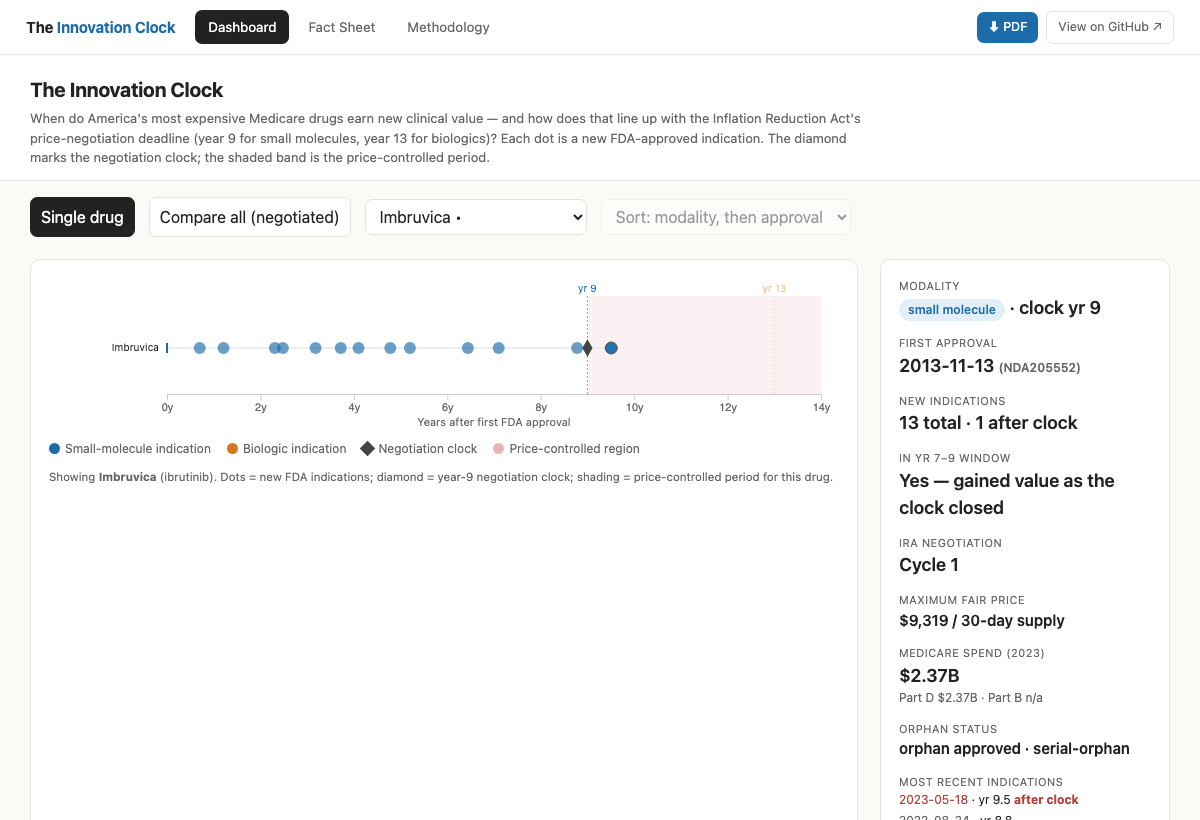
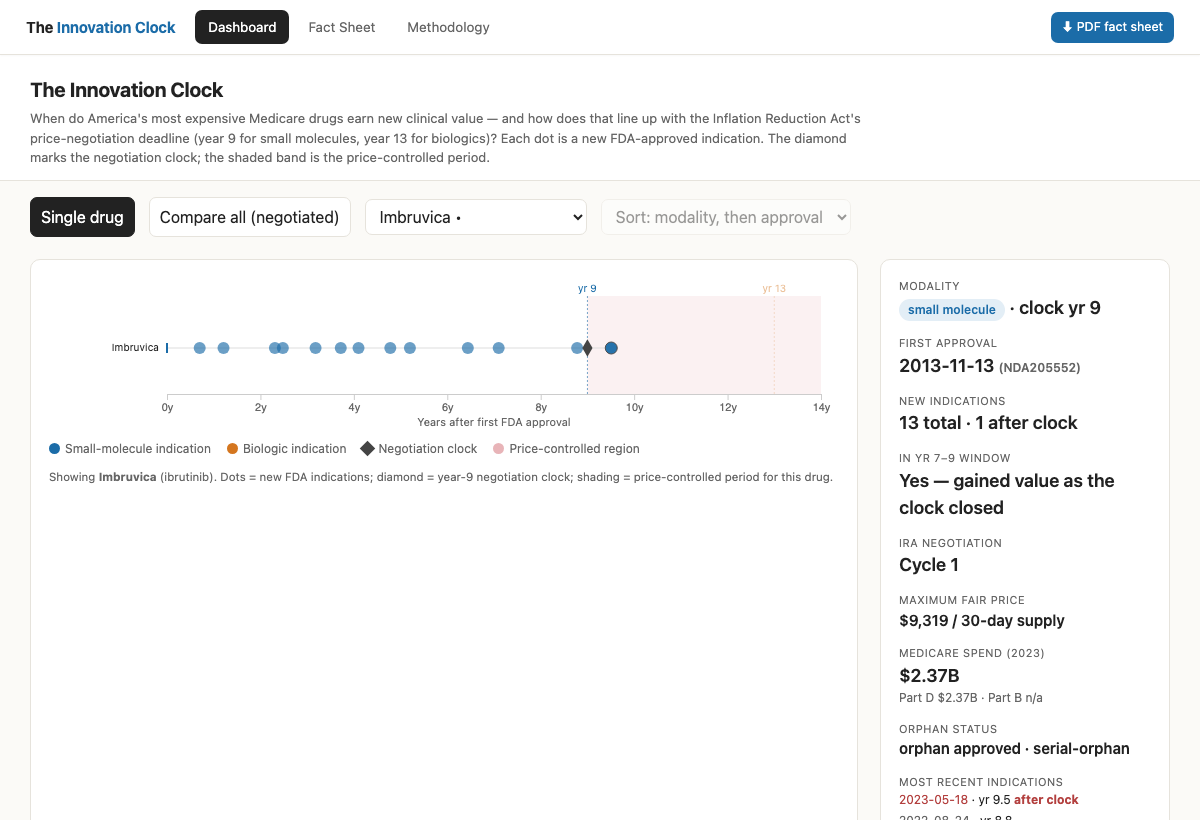
Site for submission: drop repo links, rewrite Methodology as a narrative
- Remove the "View on GitHub" button from the site; the deliverable is the live
  link only, so nothing points at the code repo (the github.io Pages URL — the
  live site itself — remains).
- Rewrite the Methodology tab from a raw technical dump into a balanced,
  plain-language narrative: what we set out to answer, the data, how we built it
  (cohort, anchoring, counting indications, spend, the two policy what-ifs), and
  an honest "choices that matter" callout — still rigorous, now readable.
- Mirror the change in the downloadable PDF appendix: replace the GitHub/code
  bullet with "available on request" and keep the dashboard link + datasets +
  reproducibility note.

Changed region(s): [[0.8017, 0.0, 0.9867, 0.061]]

diff --git a/dashboard/index.html b/dashboard/index.html
@@ -106,8 +106,7 @@
   <button class="tab" data-tab="factsheet">Fact Sheet</button>
   <button class="tab" data-tab="methodology">Methodology</button>
   <div class="right">
-    <a class="pdfmini" href="../factsheet/Shahid_Abdullah_Innovation_Clock.pdf" target="_blank" rel="noopener">⬇ PDF</a>
-    <a class="ghlink" href="https://github.com/asweezy00/innovation-clock" target="_blank" rel="noopener">View on GitHub ↗</a>
+    <a class="pdfmini" href="../factsheet/Shahid_Abdullah_Innovation_Clock.pdf" target="_blank" rel="noopener">⬇ PDF fact sheet</a>
   </div>
 </div>
 
@@ -232,76 +231,72 @@
 <section id="tab-methodology" class="tabpanel">
 <div class="article">
   <div class="eyebrow">Methodology</div>
-  <p class="fs-dek">Every data-source decision, cleaning rule, and limitation behind the numbers. The full data dictionary
-  and findings log live in the <a href="https://github.com/asweezy00/innovation-clock/tree/main/docs" target="_blank" rel="noopener">repository</a>.</p>
-  <div class="md"><h1>Methodology</h1>
-<p>This document records every data-source decision, cleaning rule, and known limitation in the Innovation Clock pipeline. The goal is full reproducibility: <code>python -m src.run_all</code> rebuilds every artifact from cached raw responses in <code>data/raw/</code>.</p>
-<h2>1. The analytical frame (policy facts)</h2>
-<p>The IRA lets Medicare set a "Maximum Fair Price" (MFP) on high-spend, single-source drugs. Eligibility timing depends on <strong>modality</strong>, taken from the FDA application type:</p>
-<ul>
-<li><strong>Small molecule (FDA NDA)</strong> — selected at <strong>year 7</strong> after approval; MFP effective at <strong>year 9</strong>.</li>
-<li><strong>Biologic (FDA BLA)</strong> — selected at <strong>year 11</strong>; MFP effective at <strong>year 13</strong>.</li>
-</ul>
-<p>The 4-year gap is the contested <strong>"pill penalty."</strong> The <strong>EPIC Act (H.R. 1492, 119th Congress)</strong> would push small-molecule selection to year 11; as of 2026 it is <strong>pending, not enacted</strong>. The <strong>One Big Beautiful Bill Act</strong> (P.L. 119-21, signed July 4, 2025; recent CMS documents cite it as the "Working Families Tax Cuts" legislation) broadened the orphan exclusion to "serial orphan" drugs (multiple rare-disease indications, no non-orphan approval) and resets their clock to first non-orphan approval. All policy numbers cited in outputs carry a source URL — see <a href="https://github.com/asweezy00/innovation-clock/blob/main/data/raw/policy_facts.json" target="_blank" rel="noopener"><code>data/raw/policy_facts.json</code></a>, compiled from primary sources and cross-checked against the underlying documents (CMS, KFF, Congress.gov, CRS, Public Citizen, PhRMA, Sidley/Jones Day).</p>
-<h2>2. Cohort construction (<code>src/cohort.py</code>)</h2>
-<p>The cohort is the <strong>union</strong> of:</p>
-<ul>
-<li><strong>(A) IRA negotiation Cycles 1–3</strong> — 10 + 15 + 15 = 40 unique molecules (Tradjenta appears in Cycle 2 <em>and</em> as the Cycle 3 renegotiation; counted once under Cycle 2). These lists and their MFPs are <strong>curated, cited constants</strong> verified against primary CMS fact sheets and cross-checked vs KFF on 2026-06-07. They are <em>baked in</em>, not scraped at runtime, because CMS HTML/PDF layouts change and are not reliably machine-parseable — baking them in keeps reruns deterministic and offline. The MFP values are the CMS-published <strong>30-day-supply-equivalent</strong> negotiated prices.</li>
-<li><strong>(B) Top-50 Medicare Part D drugs</strong> by latest-year (2023) gross spend, fetched live from CMS and cached.</li>
-</ul>
-<p>Deduplication uses the <strong>ingredient set</strong> (normalized active ingredients) with a <strong>brand-name fallback</strong> — CMS abbreviates combination-drug ingredients (e.g. "Bictegrav/Emtricit/Tenofov Ala"), so brand matching is needed to merge e.g. Biktarvy/Trelegy/Ofev that appear in both (A) and (B). The cohort is capped near 64–70 molecules.</p>
-<p><strong>"Negotiation-eligible" approximation.</strong> For the top-50 set we use high-spend single brand-name Part D drugs (brand ≠ generic; supplies like needles/lancets excluded). True IRA eligibility also requires 7+ years on market with no generic/biosimilar competitor — not determinable from spend data alone — so the top-50 set is an <em>approximation</em> that broadens the analysis beyond the negotiated 40.</p>
-<p><strong>Canonical analysis cohort = the 40 negotiated drugs.</strong> The two CSVs and the dashboard carry the full 64-drug union, but every headline statistic, the modality table, and Figures 1–3 are computed on the 40 IRA-negotiated drugs only. The top-50 union is never mixed into the headline stats (it would otherwise pull in non-negotiated drugs like Humira and Lantus). See <code>analyze.py</code>, which prints the per-metric computation into <code>docs/FINDINGS.md</code>.</p>
-<h2>3. FDA resolution — the crux (<code>src/fetch_fda.py</code>)</h2>
-<p>Mapping a brand/generic to the right FDA application(s) is the hardest step. Findings that shaped the logic:</p>
-<ul>
-<li><strong><code>products.active_ingredients.name</code> is the reliable search key.</strong> The openFDA <code>openfda</code> block (brand/generic/substance names) is <strong>empty on many originator NDAs/BLAs</strong>, so brand/generic/substance searches <em>miss the original application</em>. Example: <code>openfda.brand_name:"ELIQUIS"</code> returns HTTP 404 (no match) and <code>openfda.generic_name:"apixaban"</code> returns only ANDA generics — but <code>products.active_ingredients.name:"APIXABAN"</code> returns the original NDA202155 (2012) plus the NDA220073 reformulation. We search by each active-ingredient token (plus brand/generic as cheap fallbacks), union the results, and <strong>keep only <code>NDA</code>/<code>BLA</code> originator applications</strong> (ANDA generics dropped).</li>
-<li><strong>Ingredient-set filter (exact equality).</strong> A candidate application is accepted if its active-ingredient set <strong>exactly equals</strong> the cohort drug's expected ingredient set, <strong>or</strong> the brand name matches. Exact equality (not subset) cuts both ways: a combination drug (Entresto = sacubitril + valsartan) must list <em>both</em> members, so valsartan-only products are excluded; and a single-ingredient drug (Jardiance = empagliflozin) does <strong>not</strong> absorb fixed-dose combinations or co-packs that merely <em>contain</em> it (Synjardy, Glyxambi, Trijardy, the Kisqali-Femara co-pack) — those products' new indications belong to them, not to the single agent. (An earlier subset rule let single agents absorb ~20 such combination-product supplements, double-counting Trijardy's 2020 supplement under both Jardiance and Tradjenta; exact matching removes them.)</li>
-<li><strong>Anchor = earliest original approval.</strong> Year 0 is the <strong>minimum <code>submission_status_date</code> among <code>submission_type == "ORIG"</code> and <code>submission_status == "AP"</code></strong> across <em>all</em> matched applications. This fixes the reformulation trap: a brand search for Imbruvica surfaces a 2022 reformulation (NDA217003), but anchoring to the earliest ORIG-AP correctly yields NDA205552 (2013-11-13).</li>
-<li><strong>New indications = efficacy supplements.</strong> Submissions with <code>submission_type == "SUPPL"</code>, <code>submission_status == "AP"</code>, and class <strong><code>EFFICACY</code></strong> (detected via <code>submission_class_code == "EFFICACY"</code> — more robust than the sometimes-absent <code>submission_class_code_description</code>). Events are <strong>deduplicated by date</strong> across all of a molecule's applications (e.g. Eliquis supplements #39 and #40 on 2025-04-17 collapse to one event). <code>years_after_launch = (event_date − anchor_date) / 365.25</code>.</li>
-<li><strong>Modality</strong> is read from the <strong>anchor application's prefix</strong>: <code>NDA</code> → small molecule (clock 9), <code>BLA</code> → biologic (clock 13).</li>
-<li><strong>Indication text</strong> is best-effort from the openFDA <code>label</code> endpoint (<code>indications_and_usage</code>); missing for some drugs.</li>
-</ul>
-<p><strong>HTTP etiquette &amp; caching.</strong> Descriptive User-Agent; ~0.3s between live calls; exponential backoff on 429/5xx; a malformed single query (HTTP 400, e.g. a combination generic with punctuation) is skipped (logged) rather than fatal, and the other search angles still resolve the drug. Every raw JSON response is cached to <code>data/raw/fda/</code>.</p>
-<p><strong>Documented FDA limits.</strong> We request openFDA's maximum of 1,000 results per query. A handful of <em>very common</em> shared ingredients (e.g. metformin, tenofovir) match more products than that, but originator resolution does not depend on an exhaustive listing — each drug is also searched by its own ingredient tokens, and combination products are excluded by the exact-ingredient-set match above, so the truncation does not affect any cohort drug's anchor or event set. Efficacy supplements are a <strong>proxy</strong> for "new indications": they capture most new-disease approvals but also some population/line-of-therapy expansions and can miss a handful of original-label indications. This bias is consistent across modalities, so cross-modality comparisons remain meaningful.</p>
-<h2>4. CMS spend (<code>src/fetch_cms.py</code>)</h2>
-<ul>
-<li><strong>UUID discovery, not hardcoding.</strong> Dataset UUIDs change yearly, so we fetch the CMS open-data catalog (<code>https://data.cms.gov/data.json</code>) and match the exact titles "Medicare Part D Spending by Drug" and "Medicare Part B Spending by Drug" (the annual, not Quarterly, datasets), reading the dataset UUID from the distribution's <code>accessURL</code>. The data-api is then paginated (<code>size=5000</code>) and every page cached to <code>data/raw/cms/</code>.</li>
-<li><strong>Latest year = 2023</strong> (series 2019–2023).</li>
-<li><strong>Part D</strong> carries per-manufacturer rows plus an <code>Mftr_Name == "Overall"</code> aggregate per SKU — we keep only the Overall rows to avoid double-counting (3,598 rows).</li>
-<li><strong>Spend = the whole negotiated brand family, not one SKU.</strong> A CMS-negotiated "drug" is a brand <em>family</em>: its Part D "Overall" spend is split across device/strength variants (Enbrel / Enbrel Mini / Enbrel SureClick; Austedo / Austedo XR) and, where CMS bundles them, across distinct brands of the same molecule (Ozempic / Rybelsus / Wegovy; NovoLog / Fiasp). We therefore <strong>sum</strong> the family: an Overall row joins a drug's unit when it is single-source (brand ≠ generic, so authorized generics and commodity rows are excluded) <strong>and</strong> its brand equals the drug's brand or a curated CMS-bundle alias, <strong>or</strong> is a device/strength variant of one carrying the <em>same</em> active ingredient (so the biphasic "NovoLog Mix 70-30" and the Kisqali-Femara co-pack, which have different ingredients, are excluded). This recovers ≈$4.6B that a single-row pick understates (e.g. Ozempic+Rybelsus+Wegovy = $10.9B vs $9.2B for the Ozempic SKU alone; Enbrel family $3.0B vs $2.1B).</li>
-<li><strong>Part B has no manufacturer column</strong> (it is HCPCS-based); a drug can span multiple HCPCS rows, so Part B spend for a drug is the <strong>sum</strong> of its matched rows.</li>
-<li><strong>Join FDA↔CMS</strong> has no shared key: we normalize names (uppercase, strip salts/forms/punctuation) and match exact-then-fuzzy (<code>rapidfuzz</code>, token-sort ratio ≥ 88). Spend is looked up in <strong>both</strong> Part D and Part B for every drug (so Part B physician-administered biologics like Orencia/Entyvio get their dominant Part B spend), and <code>total_medicare_spend = Part D + Part B</code>. Salt/form stripping covers e.g. "Dapagliflozin Propanediol" → dapagliflozin, "Nintedanib Esylate" → nintedanib.</li>
-</ul>
-<h2>5. Orphan enrichment (<code>src/fetch_orphan.py</code>)</h2>
-<p>The FDA OOPD "Search Orphan Drug Designations and Approvals" database has <strong>no JSON API</strong> and sits behind Akamai bot management. The pipeline: (1) GET the search page to obtain Akamai session cookies (<code>_abck</code>, <code>bm_sz</code>); (2) <strong>POST</strong> the ColdFusion form (<code>OOPD_Results.cfm</code>, <code>Output_Format=Detailed</code>) per drug's primary ingredient — GET is blocked with 503; (3) parse the labeled text output (<code>Generic Name</code>, <code>Orphan Designation</code>, <code>Orphan Designation Status</code>, <code>Marketing Approval Date</code>) into structured records; (4) cache the raw HTML per drug to <code>data/raw/orphan/</code>. If the site is unreachable, <code>orphan_status</code> falls back to <code>"unknown"</code> and the pipeline proceeds (orphan is enrichment, non-blocking).</p>
-<p><code>orphan_status ∈ {orphan_approved, designated_not_approved, none, unknown}</code>. <code>serial_orphan_candidate</code> = ≥2 distinct <em>approved</em> orphan indications. Validation: Imbruvica (13 distinct), Revlimid (9), Calquence (3) flag true; Eliquis flags <code>none</code> — all correct.</p>
-<p><strong>Serial-orphan precision.</strong> The OBBBA exemption requires multiple orphan indications <strong>and no approved non-orphan indication</strong>. <code>serial_orphan_candidate</code> (≥2 orphan indications) alone is over-inclusive (e.g. Enbrel, Stelara, Otezla carry orphan designations <em>plus</em> large non-orphan markets like RA/psoriasis). <code>analyze.py</code> therefore computes a <strong>strict</strong> flag: a multi-orphan drug whose FDA label indications text contains no clearly-common disease keyword. The keyword list covers common autoimmune/metabolic/CNS diseases <strong>and common (non-orphan) solid tumors</strong> (renal cell, endometrial, non-small-cell lung, colorectal, melanoma, breast, prostate, hepatocellular, ovarian, gastric, bladder, head-and-neck). This is a documented heuristic; it yields <strong>4</strong> plausible OBBBA serial-orphan drugs: <strong>Calquence, Imbruvica, Ofev, Pomalyst</strong> (all-rare leukemias/lymphomas, myeloma/Kaposi, pulmonary fibrosis). <strong>Lenvima is correctly excluded</strong> — its label includes renal cell and endometrial carcinoma, both non-orphan. <code>headline_stats.json</code> records the exclusion reason for every multi-orphan drug. Each candidate's orphan/non-orphan basis is printed in <code>docs/FINDINGS.md</code> §4.</p>
-<h2>6. Analysis (<code>src/analyze.py</code>)</h2>
-<p><strong>Canonical cohort = the 40 IRA-negotiated drugs.</strong> Every headline number, the modality table, and Figures 1–3 are computed on these 40 only (30 small molecule + 10 biologic). The broader 64-drug union (incl. top-50 Part D spenders) is reported only as context and is never mixed into the stats. <code>docs/FINDINGS.md</code> shows the explicit computation behind each headline number, regenerated on every run.</p>
-<ul>
-<li><strong>Unit of analysis matters.</strong> Item 1 ("20 of 30") counts <strong>drugs</strong> that gained ≥1 indication in the window; item 2 ("% after clock") counts <strong>indications</strong>. Different denominators.</li>
-<li><strong>Yr 7–9 window</strong> (small molecules) / <strong>yr 11–13</strong> (biologics) = <code>[clock_year − 2, clock_year]</code>. A drug is "in window" if ≥1 indication's <code>years_after_launch</code> falls in it.</li>
-<li><strong>After clock</strong>: <code>years_after_launch ≥ clock_year</code>. <strong>Back half of the pre-clock window</strong>: <code>clock_year/2 &lt; years_after_launch &lt; clock_year</code> — strictly <em>before</em> the clock, so it is disjoint from "after clock" (no boundary double-count). Both computed on the 268 efficacy-supplement events of the 40 negotiated drugs.</li>
-<li><strong>EPIC balance check — small molecules only.</strong> EPIC moves <em>only</em> the small-molecule selection clock (yr 7 → 11); biologics already sit at yr 11 and are <strong>unaffected</strong>, so they cannot be removed by EPIC. We therefore count only the <strong>30 negotiated small molecules</strong> that were &lt; 11 years past first approval at their cycle's selected-drug announcement (Cycle 1: 2023-08-29; Cycle 2: 2025-01-17; Cycle 3: 2026-01-27): <strong>19 of 30</strong> ($67.6B). Per cycle: 5/7, 8/15, 6/8. (Public Citizen's published "5 of the first 10, 8 of the next 15" counts <em>all</em> selected drugs incl. biologics; the 5 and 8 blocked are the small molecules — consistent with our count.)</li>
-</ul>
-<h2>7. Validation / sanity checks</h2>
-<ul>
-<li>Indication events dated <em>before</em> the anchor approval are dropped during extraction (reformulation/transfer artifacts), so the assembled dataset contains no pre-anchor events by construction; a defensive re-check in <code>build_dataset.py</code> confirms 0 remain.</li>
-<li>Modality is derived solely from the application prefix.</li>
-<li>Drugs with 0 resolved originator applications are flagged in the run summary (currently: Arexvy, Shingrix).</li>
-<li>62 of 64 cohort drugs resolved (97%); 64/64 have spend; 40/40 negotiated have spend.</li>
-</ul>
-<h2>8. Known limitations (do not hide)</h2>
-<ol>
-<li><strong>Efficacy supplements are a proxy</strong> for new indications (see §3).</li>
-<li><strong>Cycle 3 (IPAY 2028) MFPs are not published</strong> until ~Nov 30, 2026; <code>mfp_usd</code> is <code>null</code> for those drugs — never imputed.</li>
-<li><strong>Two vaccines unresolved</strong> (Arexvy, Shingrix): CMS lists their generic as an antigen description ("Rsvpref3 Antigen/As01e/PF") that does not map to FDA active-ingredient names; they are non-negotiated top-spend entries and are left with null FDA fields.</li>
-<li><strong>Insulin aspart (NovoLog/Fiasp)</strong> resolves as a <strong>biologic</strong> (BLA, clock 13) because FDA transitioned insulins to BLAs in March 2020; the original approval date (2000) is preserved. Mechanically correct under the application-prefix rule and clinically defensible (insulin is a biologic), but worth flagging as a modality edge case.</li>
-<li><strong>Xolair Part B classification is contested.</strong> CMS published no official per-drug Part B/Part D split for Cycle 3 (its fact sheets attach HCPCS J-codes "if applicable," including for Cosentyx and Xolair). Analyst counts differ: Avalere and Cardinal Health describe four primarily-Part B drugs (Botox, Cimzia, Orencia, Entyvio), while Milliman counts Xolair as a fifth under a "majority of gross spending" definition. We label Xolair Part B with a note; spend is looked up in both parts regardless, so totals are unaffected.</li>
-<li><strong>Top-50 "eligibility" is approximate</strong> (§2).</li>
-<li><strong>Fuzzy name matching</strong> can mis-join in principle; exact normalized matching is tried first and the threshold is conservative (≥88). No mismatches observed in the current cohort.</li>
-</ol></div>
+  <h1 class="fs-title">How this was built</h1>
+  <p class="fs-dek">A plain-language tour of the question, the data, and the judgment calls — with enough detail to
+  show the work is reproducible and the numbers are defensible.</p>
+
+  <h2 class="fs-h2">What we set out to answer</h2>
+  <p class="md">Brand-name drugs rarely arrive fully formed. After a first approval, manufacturers keep running trials and
+  earning <b>new FDA-approved indications</b> — new diseases, new patient groups — sometimes for a decade or more. The
+  Inflation Reduction Act lets Medicare negotiate the price of a high-spend drug, but the clock starts at a different point
+  depending on what kind of molecule it is: a <b>small-molecule pill</b> can be price-negotiated at <b>year&nbsp;9</b> after
+  launch, while a <b>biologic</b> is shielded until <b>year&nbsp;13</b>. That four-year gap is the contested
+  "pill&nbsp;penalty." The question this project answers with data: <b>for the drugs Medicare has actually selected, when do
+  the new indications land relative to that clock — and what would it mean to change it?</b></p>
+
+  <h2 class="fs-h2">The data (all public, no special access)</h2>
+  <ul class="md">
+    <li><b>FDA Drugs@FDA / openFDA</b> — every drug's first approval date, whether it's a small molecule (NDA) or biologic
+    (BLA), and each later "efficacy supplement" (the FDA record that marks a new approved use).</li>
+    <li><b>CMS Medicare Part&nbsp;D &amp; Part&nbsp;B Spending by Drug</b> (2023, the latest full year) — how much Medicare
+    actually spends on each drug.</li>
+    <li><b>CMS Drug Price Negotiation fact sheets</b> — the official list of selected drugs and their negotiated prices for
+    Cycles&nbsp;1–3.</li>
+    <li><b>FDA Orphan Drug Designations</b> — which drugs treat rare diseases (used for the orphan-exemption angle).</li>
+  </ul>
+
+  <h2 class="fs-h2">How we built it</h2>
+  <p class="md"><b>1 · The cohort.</b> The headline analysis is the <b>40 drugs Medicare has actually
+  selected</b> for negotiation across Cycles&nbsp;1–3 (30 small molecules + 10 biologics). The selected-drug lists
+  and negotiated prices are taken straight from the CMS fact sheets and verified by hand. (A broader "top-50 Medicare
+  spenders" list is carried alongside for context, but never mixed into the headline numbers.)</p>
+
+  <p class="md"><b>2 · Anchoring the timeline.</b> For each drug, "year&nbsp;0" is its <i>earliest</i> original FDA approval.
+  This matters: a quick brand search often surfaces a later reformulation, which would make a drug look younger than it is.
+  We resolve each drug to its true originating application by its active ingredient, then take the earliest approval — so
+  Imbruvica anchors to its real 2013 launch, not a 2022 reformulation.</p>
+
+  <p class="md"><b>3 · Counting new indications.</b> Each new approved use is an FDA <b>efficacy supplement</b>. We place every
+  one on the timeline as "years after first approval," giving the dots you see in the dashboard. To avoid crediting one drug
+  with another's work, a drug only counts indications for its <i>exact</i> ingredient — a single-ingredient pill does not
+  absorb the approvals of fixed-dose combination products that merely contain it. Across the 40
+  drugs that's <b>268 new-indication events</b>.</p>
+
+  <p class="md"><b>4 · Spend.</b> A negotiated "drug" is really a brand <i>family</i> — different devices, strengths, and
+  sometimes sibling brands of the same molecule (Ozempic / Rybelsus / Wegovy). We add up the whole family so spend reflects
+  the unit Medicare actually negotiates. Part&nbsp;B (physician-administered) and Part&nbsp;D (pharmacy) spend are both
+  included. The 40 drugs total <b>~$112.2B</b> in 2023.</p>
+
+  <p class="md"><b>5 · The two policy what-ifs.</b> The <i>EPIC</i> check asks which small molecules would have been
+  <i>out of reach</i> for negotiation if their clock were pushed to year&nbsp;11 (biologics are unaffected, since they
+  already sit at year&nbsp;11). The <i>orphan</i> check applies the One Big Beautiful Bill Act's stricter "serial-orphan"
+  test — multiple rare-disease approvals and no common-disease approval — using real FDA orphan designations.</p>
+
+  <div class="fs-callout">
+    <h3>Choices that matter — stated plainly</h3>
+    <p class="md" style="margin:0">
+    <b>"New indication" is a proxy.</b> Efficacy supplements capture most new-disease approvals but can also include some
+    population or line-of-therapy expansions — a known, documented limitation that's consistent across both modalities, so
+    the small-molecule-vs-biologic comparison stays fair.<br><br>
+    <b>The data cuts both ways, on purpose.</b> Small molecules genuinely keep earning new uses inside the window the clock
+    truncates (the innovation argument), <i>and</i> equalizing the clock would pull tens of billions of high-spend drugs out
+    of negotiation (the affordability argument). Both readings come from the same dataset — we present both.<br><br>
+    <b>What we never invented.</b> Cycle&nbsp;3 negotiated prices aren't published yet, so they're left blank rather than
+    guessed. Two vaccines don't map cleanly between the FDA and CMS naming systems and are flagged, not fudged.</p>
+  </div>
+
+  <p class="md" style="margin-top:16px"><b>Reproducible end to end.</b> Every figure and statistic on this site is generated
+  by one command from cached public data — no manual spreadsheet steps — so the same inputs always produce the same numbers.</p>
 </div>
 </section>
 

diff --git a/factsheet/factsheet.html b/factsheet/factsheet.html
@@ -130,7 +130,7 @@ application type of the earliest original approval (NDA = small molecule, BLA = 
 <i>efficacy supplements</i>, a documented proxy that can include some population/line-of-therapy expansions. <b>Spend</b> = gross
 Medicare spending (Part&nbsp;D + Part&nbsp;B, 2023) computed from CMS Spending-by-Drug data — not CMS's official per-cycle
 totals. <b>Orphan</b> status is from the real FDA Orphan Drug Designations database; the strict serial-orphan test is a documented
-heuristic. Cycle&nbsp;3 Maximum Fair Prices are not yet published. Full pipeline + caveats: repository <code>docs/METHODOLOGY.md</code>.</p>
+heuristic. Cycle&nbsp;3 Maximum Fair Prices are not yet published. Full methodology &amp; caveats are detailed in the appendix and the live site's Methodology tab.</p>
 </div>
 <div class="foot">The Innovation Clock · built from public FDA &amp; CMS data · reproduces from <code>python -m src.run_all</code>.</div>
 </body></html>

diff --git a/src/dashboard.py b/src/dashboard.py
@@ -164,17 +164,79 @@ def _fix_md_links(html: str) -> str:
     return re.sub(r'href="([^"]+)"', repl, html)
 
 
-def _methodology_section() -> str:
-    import markdown
-    md = METHODOLOGY_MD.read_text()
-    body = markdown.markdown(md, extensions=["extra", "tables", "sane_lists"])
-    body = _fix_md_links(body)
+def _methodology_section(s) -> str:
+    mc = s.get("modality_counts", {})
+    sm_n, bio_n = mc.get("small molecule", 0), mc.get("biologic", 0)
+    spend = _bn(s.get("negotiated_total_spend"))
     return f"""
 <div class="article">
   <div class="eyebrow">Methodology</div>
-  <p class="fs-dek">Every data-source decision, cleaning rule, and limitation behind the numbers. The full data dictionary
-  and findings log live in the <a href="{REPO_URL}/tree/main/docs" target="_blank" rel="noopener">repository</a>.</p>
-  <div class="md">{body}</div>
+  <h1 class="fs-title">How this was built</h1>
+  <p class="fs-dek">A plain-language tour of the question, the data, and the judgment calls — with enough detail to
+  show the work is reproducible and the numbers are defensible.</p>
+
+  <h2 class="fs-h2">What we set out to answer</h2>
+  <p class="md">Brand-name drugs rarely arrive fully formed. After a first approval, manufacturers keep running trials and
+  earning <b>new FDA-approved indications</b> — new diseases, new patient groups — sometimes for a decade or more. The
+  Inflation Reduction Act lets Medicare negotiate the price of a high-spend drug, but the clock starts at a different point
+  depending on what kind of molecule it is: a <b>small-molecule pill</b> can be price-negotiated at <b>year&nbsp;9</b> after
+  launch, while a <b>biologic</b> is shielded until <b>year&nbsp;13</b>. That four-year gap is the contested
+  "pill&nbsp;penalty." The question this project answers with data: <b>for the drugs Medicare has actually selected, when do
+  the new indications land relative to that clock — and what would it mean to change it?</b></p>
+
+  <h2 class="fs-h2">The data (all public, no special access)</h2>
+  <ul class="md">
+    <li><b>FDA Drugs@FDA / openFDA</b> — every drug's first approval date, whether it's a small molecule (NDA) or biologic
+    (BLA), and each later "efficacy supplement" (the FDA record that marks a new approved use).</li>
+    <li><b>CMS Medicare Part&nbsp;D &amp; Part&nbsp;B Spending by Drug</b> (2023, the latest full year) — how much Medicare
+    actually spends on each drug.</li>
+    <li><b>CMS Drug Price Negotiation fact sheets</b> — the official list of selected drugs and their negotiated prices for
+    Cycles&nbsp;1–3.</li>
+    <li><b>FDA Orphan Drug Designations</b> — which drugs treat rare diseases (used for the orphan-exemption angle).</li>
+  </ul>
+
+  <h2 class="fs-h2">How we built it</h2>
+  <p class="md"><b>1 · The cohort.</b> The headline analysis is the <b>{s.get('n_negotiated', 40)} drugs Medicare has actually
+  selected</b> for negotiation across Cycles&nbsp;1–3 ({sm_n} small molecules + {bio_n} biologics). The selected-drug lists
+  and negotiated prices are taken straight from the CMS fact sheets and verified by hand. (A broader "top-50 Medicare
+  spenders" list is carried alongside for context, but never mixed into the headline numbers.)</p>
+
+  <p class="md"><b>2 · Anchoring the timeline.</b> For each drug, "year&nbsp;0" is its <i>earliest</i> original FDA approval.
+  This matters: a quick brand search often surfaces a later reformulation, which would make a drug look younger than it is.
+  We resolve each drug to its true originating application by its active ingredient, then take the earliest approval — so
+  Imbruvica anchors to its real 2013 launch, not a 2022 reformulation.</p>
+
+  <p class="md"><b>3 · Counting new indications.</b> Each new approved use is an FDA <b>efficacy supplement</b>. We place every
+  one on the timeline as "years after first approval," giving the dots you see in the dashboard. To avoid crediting one drug
+  with another's work, a drug only counts indications for its <i>exact</i> ingredient — a single-ingredient pill does not
+  absorb the approvals of fixed-dose combination products that merely contain it. Across the {s.get('n_negotiated', 40)}
+  drugs that's <b>{s.get('n_events', 0)} new-indication events</b>.</p>
+
+  <p class="md"><b>4 · Spend.</b> A negotiated "drug" is really a brand <i>family</i> — different devices, strengths, and
+  sometimes sibling brands of the same molecule (Ozempic / Rybelsus / Wegovy). We add up the whole family so spend reflects
+  the unit Medicare actually negotiates. Part&nbsp;B (physician-administered) and Part&nbsp;D (pharmacy) spend are both
+  included. The {s.get('n_negotiated', 40)} drugs total <b>~{spend}</b> in 2023.</p>
+
+  <p class="md"><b>5 · The two policy what-ifs.</b> The <i>EPIC</i> check asks which small molecules would have been
+  <i>out of reach</i> for negotiation if their clock were pushed to year&nbsp;11 (biologics are unaffected, since they
+  already sit at year&nbsp;11). The <i>orphan</i> check applies the One Big Beautiful Bill Act's stricter "serial-orphan"
+  test — multiple rare-disease approvals and no common-disease approval — using real FDA orphan designations.</p>
+
+  <div class="fs-callout">
+    <h3>Choices that matter — stated plainly</h3>
+    <p class="md" style="margin:0">
+    <b>"New indication" is a proxy.</b> Efficacy supplements capture most new-disease approvals but can also include some
+    population or line-of-therapy expansions — a known, documented limitation that's consistent across both modalities, so
+    the small-molecule-vs-biologic comparison stays fair.<br><br>
+    <b>The data cuts both ways, on purpose.</b> Small molecules genuinely keep earning new uses inside the window the clock
+    truncates (the innovation argument), <i>and</i> equalizing the clock would pull tens of billions of high-spend drugs out
+    of negotiation (the affordability argument). Both readings come from the same dataset — we present both.<br><br>
+    <b>What we never invented.</b> Cycle&nbsp;3 negotiated prices aren't published yet, so they're left blank rather than
+    guessed. Two vaccines don't map cleanly between the FDA and CMS naming systems and are flagged, not fudged.</p>
+  </div>
+
+  <p class="md" style="margin-top:16px"><b>Reproducible end to end.</b> Every figure and statistic on this site is generated
+  by one command from cached public data — no manual spreadsheet steps — so the same inputs always produce the same numbers.</p>
 </div>
 """
 
@@ -288,8 +350,7 @@ HTML = r"""<!DOCTYPE html>
   <button class="tab" data-tab="factsheet">Fact Sheet</button>
   <button class="tab" data-tab="methodology">Methodology</button>
   <div class="right">
-    <a class="pdfmini" href="__PDF_HREF__" target="_blank" rel="noopener">⬇ PDF</a>
-    <a class="ghlink" href="__REPO_URL__" target="_blank" rel="noopener">View on GitHub ↗</a>
+    <a class="pdfmini" href="__PDF_HREF__" target="_blank" rel="noopener">⬇ PDF fact sheet</a>
   </div>
 </div>
 
@@ -509,13 +570,12 @@ def run() -> str:
     stats = json.loads(STATS_IN.read_text()) if STATS_IN.exists() else {}
     policy = json.loads(POLICY_IN.read_text())
     fs = _factsheet_section(stats, policy) if stats else "<div class='article'>Fact sheet unavailable.</div>"
-    meth = _methodology_section()
+    meth = _methodology_section(stats) if stats else "<div class='article'>Methodology unavailable.</div>"
     html = (HTML
             .replace("__DATA__", json.dumps(payload))
             .replace("__STATS__", json.dumps(stats, default=str))
             .replace("__FACTSHEET_SECTION__", fs)
             .replace("__METHODOLOGY_SECTION__", meth)
-            .replace("__REPO_URL__", REPO_URL)
             .replace("__PDF_HREF__", PDF_HREF))
     OUT.write_text(html)
     print(f"Wrote {OUT} ({len(html)//1024} KB) — tabs: Dashboard, Fact Sheet, Methodology")

diff --git a/src/factsheet.py b/src/factsheet.py
@@ -143,9 +143,9 @@ def _appendix_html(warnings: list) -> str:
     (a modality edge case); and the top-50 "negotiation-eligible" set is an approximation from spend data.</p>
   </div>
 
-  <p style="margin:10px 0 0"><b>Reproducibility.</b> Every figure and statistic regenerates from cached public data via
-  <code>python -m src.run_all</code>. The repository carries the full data dictionary, a findings log with the computation
-  behind each headline number, and the complete methodology.</p>
+  <p style="margin:10px 0 0"><b>Reproducibility.</b> Every figure and statistic regenerates from cached public data via a
+  single command, so the same inputs always produce the same numbers. A full data dictionary and a findings log showing the
+  computation behind each headline number accompany the project; both are available on request.</p>
 </section>
 
 <section class="pagebreak">
@@ -157,13 +157,14 @@ def _appendix_html(warnings: list) -> str:
   <div class="box">
     <ul>
       <li><b>Interactive dashboard:</b> {dash_html} — select any drug to see its approval-to-indication timeline against its
-      negotiation clock, with spend, modality, and orphan status.</li>
-      <li><b>Code, full methodology, and dataset:</b> {repo_html}</li>
-      <li><b>Datasets:</b> <code>innovation_clock_master.csv</code> (one row per drug × indication) and
-      <code>innovation_clock_summary.csv</code> (one row per drug), with a documented data dictionary.</li>
+      negotiation clock, with spend, modality, and orphan status; or compare the full negotiated cohort at a glance.</li>
+      <li><b>Two analysis-ready datasets:</b> <code>innovation_clock_master.csv</code> (one row per drug × indication event)
+      and <code>innovation_clock_summary.csv</code> (one row per drug), each with a documented data dictionary.</li>
+      <li><b>Fully reproducible:</b> every figure and statistic is generated from cached public data (FDA + CMS) by a single
+      command, so the same inputs always produce the same numbers. Code and full methodology available on request.</li>
     </ul>
   </div>
-  <div class="foot">Appendix · The Innovation Clock · self-contained work sample · reproduces from <code>python -m src.run_all</code></div>
+  <div class="foot">Appendix · The Innovation Clock · self-contained work sample · built from public FDA &amp; CMS data</div>
 </section>
 """
 
@@ -339,7 +340,7 @@ application type of the earliest original approval (NDA = small molecule, BLA = 
 <i>efficacy supplements</i>, a documented proxy that can include some population/line-of-therapy expansions. <b>Spend</b> = gross
 Medicare spending (Part&nbsp;D + Part&nbsp;B, {s['spend_year']}) computed from CMS Spending-by-Drug data — not CMS's official per-cycle
 totals. <b>Orphan</b> status is from the real FDA Orphan Drug Designations database; the strict serial-orphan test is a documented
-heuristic. Cycle&nbsp;3 Maximum Fair Prices are not yet published. Full pipeline + caveats: repository <code>docs/METHODOLOGY.md</code>.</p>
+heuristic. Cycle&nbsp;3 Maximum Fair Prices are not yet published. Full methodology &amp; caveats are detailed in the appendix and the live site's Methodology tab.</p>
 </div>
 <div class="foot">The Innovation Clock · built from public FDA &amp; CMS data · reproduces from <code>python -m src.run_all</code>.</div>
 </body></html>"""